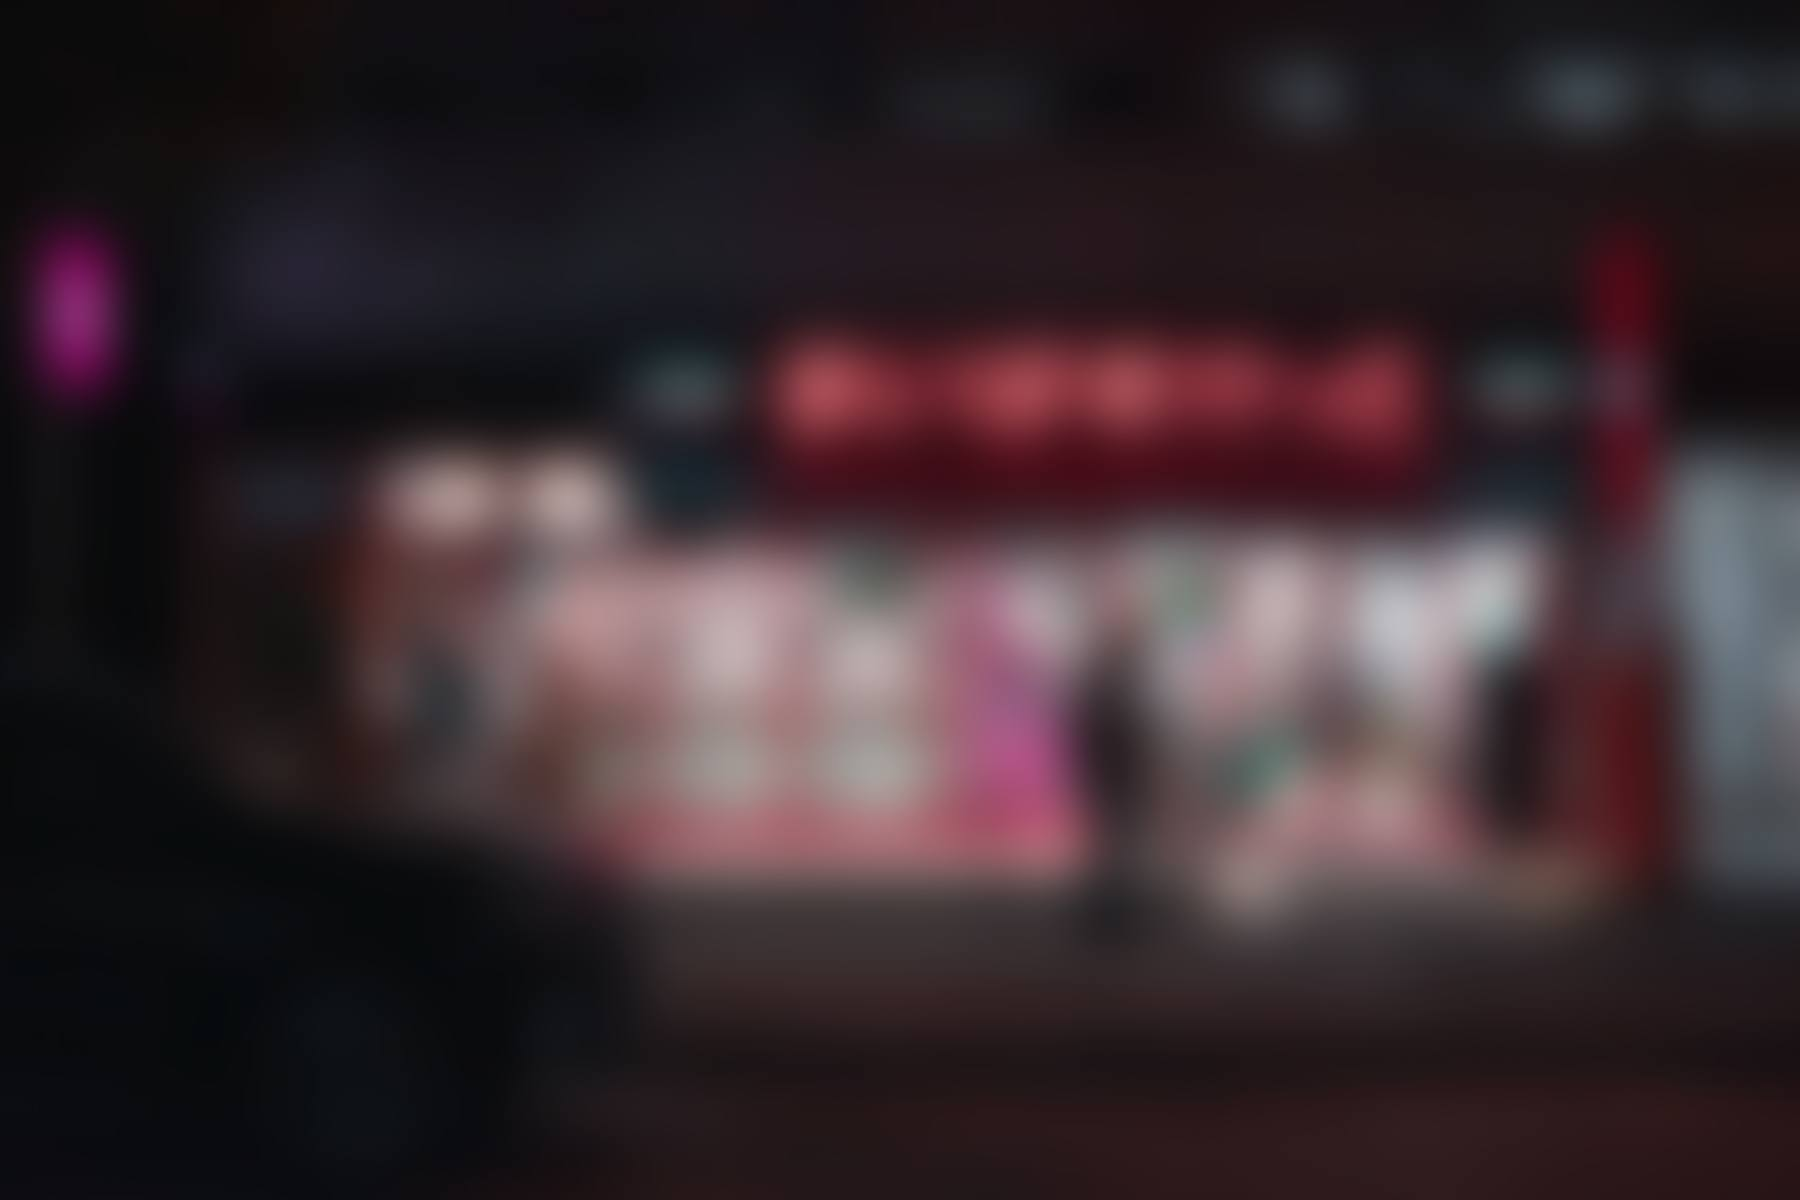
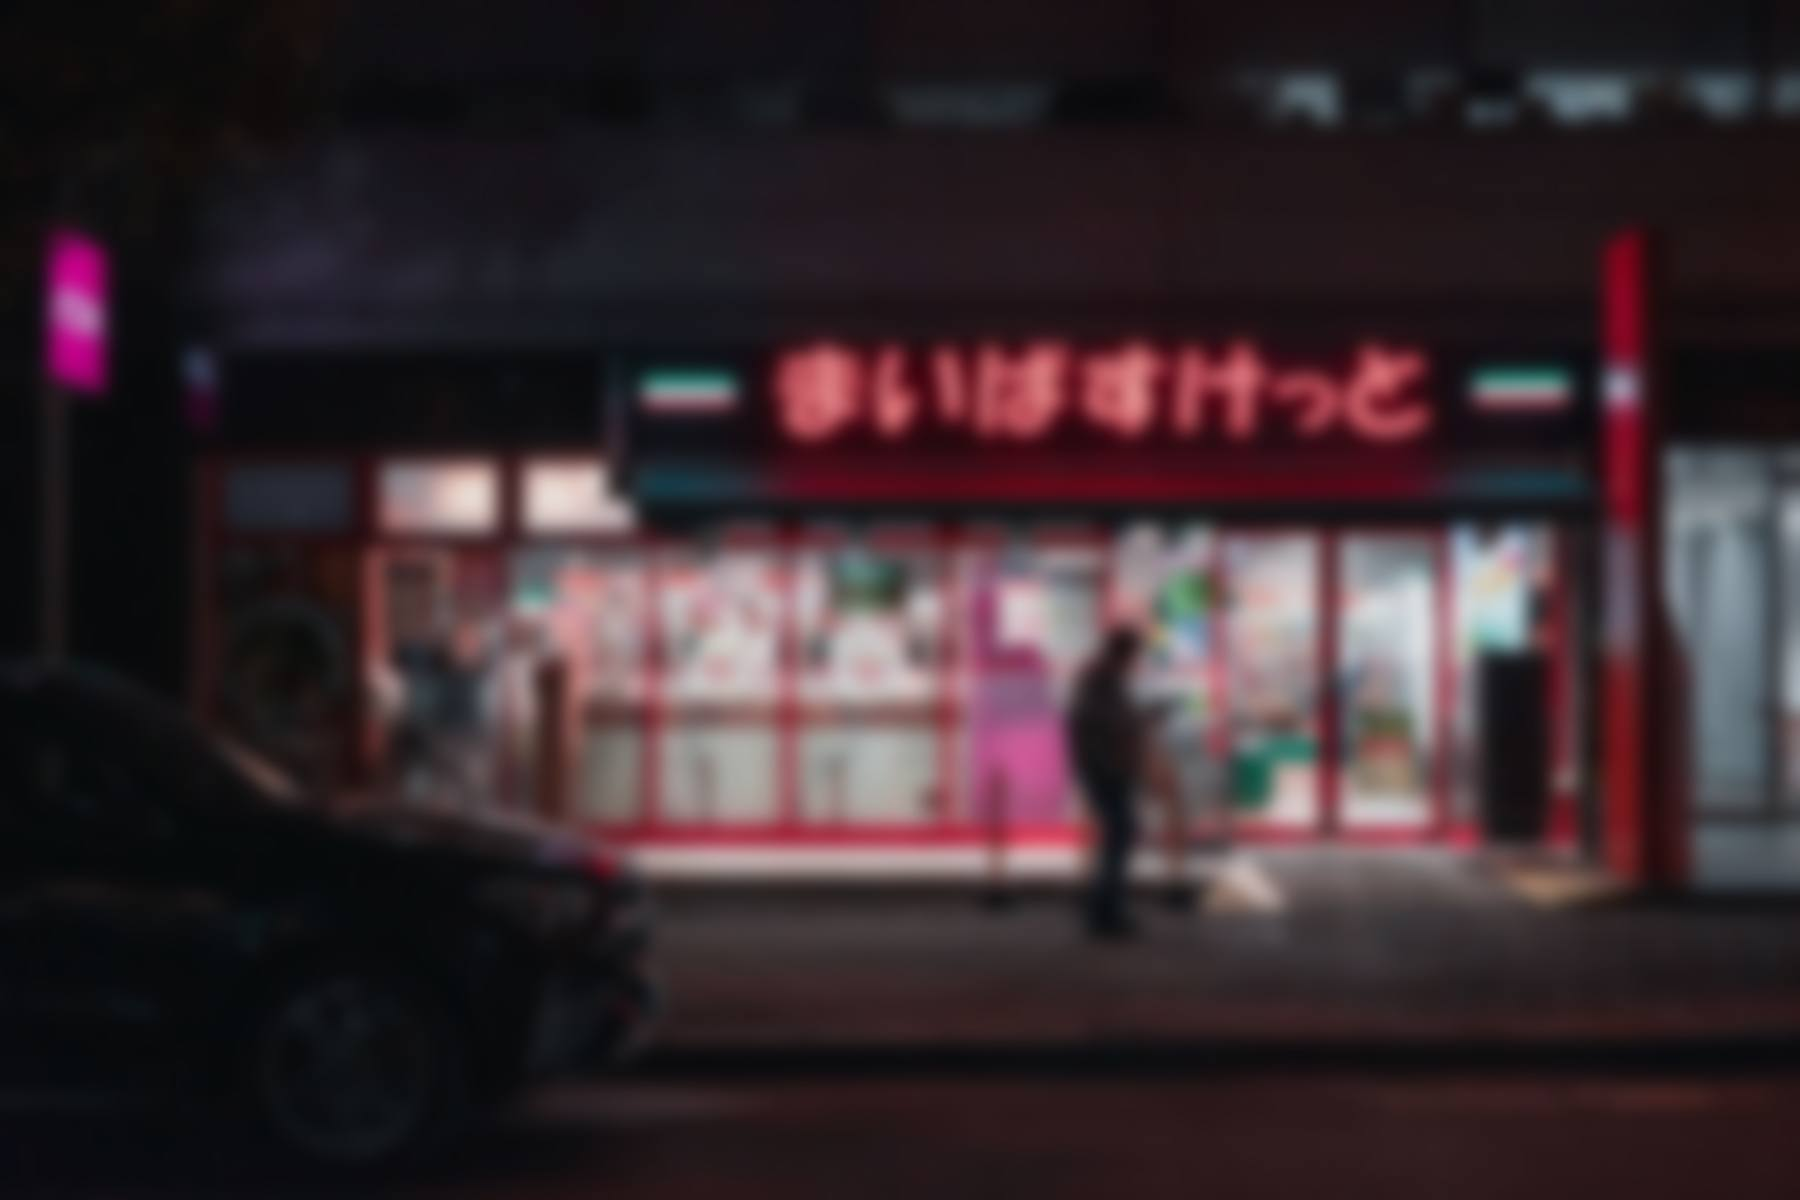
tweak: menos desenfoque en el fondo, la escena se reconoce
Radio 26 -> 9. Medido de nuevo el peor pixel bajo cada texto: titulo y
subtitulo 14.14, contador 15.11, pista 10.11, todos por encima del 7:1.
El archivo pasa de 39 a 64 KB.

diff --git a/README.md b/README.md
@@ -72,7 +72,8 @@ Para preparar una imagen nueva, el ajuste que se aplicó fue redimensionar a
 `assets/fondo.jpg` es la foto de la calle que hay detrás de todo. Va ya
 difuminada desde el archivo, no con `filter: blur()`: el desenfoque en CSS se
 recalcula en cada repintado, y una imagen difuminada comprime tanto que esta
-pesa 39 KB. Se preparó a 1800 px con un desenfoque gaussiano de radio 26.
+pesa 64 KB. Se preparó a 1800 px con un desenfoque gaussiano de radio 9, el
+punto en el que la escena todavía se reconoce pero no compite con las cartas.
 El original está en `imagenes-cartas/fondo-original.jpg`.
 
 El texto de cada carta está transcrito de la propia lámina. Se respetaron los
